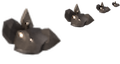
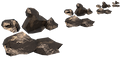
Ilménite : nouvelles icônes sur la forme J7 (objet, gisement, 3 images au sol)
DC (30/10, ~10 h 40) : « je viens de revoir les minerais, changez les icones mais si
non c est pas mal ». Avant : gros plan de feuille.py, un pâté gris soudé, lisse, à
reflets blancs. Après : morceaux de gisement.roche aux réglages J7 (et bosse soudée),
POSÉS en tas séparés comme iron-ore.png, tablette hexagonale bronze d'accent, relief
de surface, brun-noir à plages bronze ; 4 compositions différentes (icône + pictures).
Rendu Blender par le verrou, 128 échantillons, 256 px par tuile, réduit en 64+32+16+8.

Outil propre au lot : tools/render/pieces/ressources/icone_ilmenite.py (gisement.py,
directions.py et feuille.py inchangés). Mêmes noms de fichiers : prototypes inchangés
(world.lua lit déjà icone.png et icone-1 à 3). check_gisement 7 OK ; harnais data
0 violation, code 0. Hors moteur seulement (aucune capture en jeu). Sans verdict du DC.
Planche : fo-logs/2026-10-30_RETOUR-MATIN/ICONES-MINERAIS/ilmenite/index.html

diff --git a/tools/render/pieces/ressources/icone_ilmenite.py b/tools/render/pieces/ressources/icone_ilmenite.py
@@ -1,0 +1,297 @@
+"""ICÔNES DU MINERAI D'ILMÉNITE, refaites sur la forme J7 (lot ICONE-ILMENITE, 30/10).
+
+DC (30/10, ~10 h 40) : « je viens de revoir les minerais, changez les icones mais si non c est pas mal ». La forme J7
+(gisement) est acceptée ; ses icônes (gros plan de feuille.py --icones-seules) ne le sont pas : à 32 px elles se lisent
+en UN pâté gris aux bords lisses (morceaux soudés, aucun grain, reflets blancs ponctuels), quand les icônes vanilla
+(icons/iron-ore.png, coal.png : 64 px + 3 mipmaps) montrent 3 à 5 morceaux SÉPARÉS par un jour sombre, qui remplissent
+le cadre, à surface grenue et arêtes claires.
+
+Même modèle que la forme J7 : morceaux de gisement.roche aux réglages J7 (6 coupes, cassure 0,45 à 0,80, bosses ±16 %,
+aplat 0,90, lissé 30°), tête et bosse soudées comme les amas J7, tablette hexagonale d'accent (gisement.lame, habitus
+tabulaire de l'ilménite) ; matières J7 (ilmenite_k brun-noir, ilmenite_bronze) ; ciel spéculaire × 5 (CALIB J7).
+Ajouts propres à l'icône, assumés : (1) les morceaux sont POSÉS (positions fixes, jour entre eux) au lieu d'être tirés
+dans un disque ; (2) un relief de surface (bosselage par bruit, en coordonnées du monde) qui donne le grain des icônes
+vanilla ; à l'échelle du gisement (32 px par tuile) il n'apporterait rien ; (3) les plages bronze sont un mélange par
+bruit des deux matières J7 sur chaque morceau, au lieu d'une matière par morceau.
+
+Rendu : 4 cellules (icône, puis les 3 images au sol `pictures`) en UN appel de Blender, PAR LE VERROU, à 256 px par
+tuile (--set PX_PER_UNIT_HR=256 : même géométrie que le gisement, 4 fois la résolution), passe main seule ; réduction
+en lumière linéaire prémultipliée (fo_post.icon_strip) en 64 + 32 + 16 + 8 = 120 × 64 px, comme les icônes vanilla.
+
+    # rendu (Blender par le verrou) puis post-traitement, vers un dossier de sortie :
+    python tools/render/with_render_lock.py -- py -3.9 tools/render/pieces/ressources/icone_ilmenite.py \
+        --samples 128 --travail <dossier> --sortie <dossier des icônes>
+    # post-traitement seul : ... --post-seul ; installation dans graphics/ressources/ilmenite (sommes du MANIFEST) :
+    py -3.9 tools/render/pieces/ressources/icone_ilmenite.py --travail <dossier> --installer
+"""
+import argparse
+import hashlib
+import json
+import math
+import os
+import random
+import subprocess
+import sys
+import time
+
+HERE = os.path.dirname(os.path.abspath(__file__))
+RENDER = os.path.abspath(os.path.join(HERE, "..", ".."))
+MOD = os.path.abspath(os.path.join(RENDER, "..", ".."))
+for _p in (HERE, RENDER):
+    if _p not in sys.path:
+        sys.path.insert(0, _p)
+
+PIECE = {"name": "icone-ilmenite", "variants": {"J7": {}}, "margin_px": 32}
+PAS_IC = 6.0          # écart entre deux cellules, en tuiles
+PX = 256.0            # pixels par tuile du rendu des icônes
+GRAINE = 7307
+GROS = 1.10       # morceaux grossis (ronde 6 : à 32 px, le jour entre les morceaux mangeait le cadre)
+RUGOSITE = 0.22   # reflets plus nets que J7 (0,26) : arêtes claires des icônes vanilla
+FICHIERS = ("icone.png", "icone-1.png", "icone-2.png", "icone-3.png")
+
+# Matières : couleurs J7 (directions.MAT["ilmenite_k"], ["ilmenite_bronze"], valeurs linéaires)
+BRUN = (0.11, 0.078, 0.058)
+BRONZE = (0.33, 0.22, 0.14)
+# Compositions (tuiles de jeu, y vers le sud, relatives au centre de la cellule) : (x, y, taille, bosse, part de bronze)
+#   bosse : None ou (angle en degrés, taille relative) d'une bosse soudée (amas J7 : tête et 1 bosse) ;
+#   tablettes : (x, y, longueur, largeur, inclinaison en degrés, azimut en degrés).
+COMPOS = [
+    # icône : 4 morceaux en quinconce serrée (comme iron-ore.png), une tablette bronze qui sort du gros morceau
+    dict(morceaux=[(0.17, 0.17, 0.32, (40, 0.6), 0.35), (-0.24, -0.19, 0.27, (220, 0.55), 0.25),
+                   (0.27, -0.25, 0.23, None, 0.45), (-0.26, 0.24, 0.24, (140, 0.55), 0.25)],
+         tablettes=[(0.03, -0.30, 0.24, 0.26, 22, 170)]),
+    # images au sol : trois autres tas (la vanilla en a 4 en tout, dont l'icône)
+    dict(morceaux=[(-0.15, 0.10, 0.30, (160, 0.6), 0.3), (0.25, 0.17, 0.24, (30, 0.55), 0.4),
+                   (0.10, -0.24, 0.23, None, 0.3), (-0.27, -0.22, 0.17, None, 0.45)],
+         tablettes=[]),
+    dict(morceaux=[(-0.12, 0.10, 0.28, (150, 0.5), 0.35), (0.24, 0.13, 0.24, None, 0.3),
+                   (0.05, -0.25, 0.22, (270, 0.5), 0.45), (-0.30, -0.19, 0.16, None, 0.3),
+                   (0.33, -0.21, 0.15, None, 0.4)],
+         tablettes=[]),
+    dict(morceaux=[(-0.22, -0.20, 0.26, (120, 0.6), 0.3), (0.25, -0.11, 0.23, None, 0.35),
+                   (-0.09, 0.28, 0.23, (10, 0.55), 0.4)],
+         tablettes=[(0.19, 0.25, 0.20, 0.24, 45, 200)]),
+]
+
+
+def centre(c):
+    return (PAS_IC * (c - 1.5), 0.0)
+
+
+# ------------------------------------------------------------------------------------------------
+# Blender (pièce lue par tools/render/blender/render_piece.py)
+# ------------------------------------------------------------------------------------------------
+def _matiere(S, nom, part_bronze):
+    """Brun-noir J7 et plages bronze mêlées par bruit ; relief de surface par bosselage (grain des icônes vanilla)."""
+    import bpy
+    m = bpy.data.materials.new(nom)
+    m.use_nodes = True
+    nt = m.node_tree
+    N, L = nt.nodes, nt.links
+    p = N["Principled BSDF"]
+    tc = N.new("ShaderNodeTexCoord")
+    # plages bronze (bruit large)
+    nb = N.new("ShaderNodeTexNoise")
+    nb.inputs["Scale"].default_value = 9.0
+    nb.inputs["Detail"].default_value = 3.0
+    L.new(tc.outputs["Object"], nb.inputs["Vector"])
+    mb = N.new("ShaderNodeMapRange")
+    mb.inputs["From Min"].default_value = 0.64 - 0.22 * part_bronze
+    mb.inputs["From Max"].default_value = 0.72 - 0.22 * part_bronze
+    L.new(nb.outputs["Fac"], mb.inputs["Value"])
+    # grain fin de la couleur (comme mat_metal : ±22 %)
+    ng = N.new("ShaderNodeTexNoise")
+    ng.inputs["Scale"].default_value = 60.0
+    ng.inputs["Detail"].default_value = 6.0
+    ng.inputs["Roughness"].default_value = 0.6
+    L.new(tc.outputs["Object"], ng.inputs["Vector"])
+    mg = N.new("ShaderNodeMapRange")
+    mg.inputs["From Min"].default_value = 0.3
+    mg.inputs["From Max"].default_value = 0.7
+    mg.inputs["To Min"].default_value = 0.78
+    mg.inputs["To Max"].default_value = 1.22
+    L.new(ng.outputs["Fac"], mg.inputs["Value"])
+    mix = N.new("ShaderNodeMix")
+    mix.data_type = "RGBA"
+    mix.inputs[6].default_value = (BRUN[0], BRUN[1], BRUN[2], 1)
+    mix.inputs[7].default_value = (BRONZE[0], BRONZE[1], BRONZE[2], 1)
+    L.new(mb.outputs["Result"], mix.inputs["Factor"])
+    sc = N.new("ShaderNodeVectorMath")
+    sc.operation = "SCALE"
+    L.new(mix.outputs[2], sc.inputs[0])
+    L.new(mg.outputs["Result"], sc.inputs["Scale"])
+    # creux assombris (dirt 0,45 de J7)
+    ao = N.new("ShaderNodeAmbientOcclusion")
+    ao.inputs["Distance"].default_value = 0.06
+    ao.samples = 8
+    dm = N.new("ShaderNodeMapRange")
+    dm.inputs["To Min"].default_value = 0.55
+    dm.inputs["To Max"].default_value = 1.0
+    L.new(ao.outputs["AO"], dm.inputs["Value"])
+    sd = N.new("ShaderNodeVectorMath")
+    sd.operation = "SCALE"
+    L.new(sc.outputs["Vector"], sd.inputs[0])
+    L.new(dm.outputs["Result"], sd.inputs["Scale"])
+    L.new(sd.outputs["Vector"], p.inputs["Base Color"])
+    # rugosité et métal : J7 (0,26 ; 0,62) sur le brun, bronze (0,32 ; 0,65)
+    rr = N.new("ShaderNodeMapRange")
+    rr.inputs["To Min"].default_value = RUGOSITE
+    rr.inputs["To Max"].default_value = RUGOSITE + 0.06
+    L.new(mb.outputs["Result"], rr.inputs["Value"])
+    L.new(rr.outputs["Result"], p.inputs["Roughness"])
+    p.inputs["Metallic"].default_value = 0.72
+    # relief : bruit grenu + cassures (Voronoï, distance au bord)
+    nr = N.new("ShaderNodeTexNoise")
+    nr.inputs["Scale"].default_value = 38.0
+    nr.inputs["Detail"].default_value = 8.0
+    nr.inputs["Roughness"].default_value = 0.65
+    L.new(tc.outputs["Object"], nr.inputs["Vector"])
+    vo = N.new("ShaderNodeTexVoronoi")
+    vo.feature = "DISTANCE_TO_EDGE"
+    vo.inputs["Scale"].default_value = 16.0
+    L.new(tc.outputs["Object"], vo.inputs["Vector"])
+    vm = N.new("ShaderNodeMapRange")
+    vm.inputs["From Min"].default_value = 0.0
+    vm.inputs["From Max"].default_value = 0.08
+    L.new(vo.outputs["Distance"], vm.inputs["Value"])
+    ad = N.new("ShaderNodeMath")
+    ad.operation = "MULTIPLY_ADD"
+    L.new(vm.outputs["Result"], ad.inputs[0])
+    ad.inputs[1].default_value = 0.5
+    L.new(nr.outputs["Fac"], ad.inputs[2])
+    bu = N.new("ShaderNodeBump")
+    bu.inputs["Strength"].default_value = 0.35
+    bu.inputs["Distance"].default_value = 0.012
+    L.new(ad.outputs["Value"], bu.inputs["Height"])
+    L.new(bu.outputs["Normal"], p.inputs["Normal"])
+    m["fo_kind"] = "surface"
+    return m
+
+
+def build(S, C, variant):
+    import gisement as G   # noqa: E402  (importe bpy : seulement dans Blender)
+    import directions as D  # noqa: E402
+    cle = "J7"
+    d = D.DIRECTIONS[cle]
+    coupes, lisse = D.ROCHE_COUPES[cle], D.ROCHE_LISSE[cle]
+    aplat, cassure, bosse = D.ROCHE_APLAT[cle], D.ROCHE_CASSURE[cle], D.ROCHE_BOSSE[cle]
+    mats = {}
+    for c, compo in enumerate(COMPOS):
+        rng = random.Random(GRAINE * 10 + c)
+        cx, cy = centre(c)
+        for i, (gx, gy, t, b, pb) in enumerate(compo["morceaux"]):
+            t = t * GROS
+            cle_m = round(pb, 2)
+            if cle_m not in mats:
+                mats[cle_m] = _matiere(S, "ilm_icone_%03d" % int(cle_m * 100), cle_m)
+            parts = [(gx, gy, t, 0.0)]
+            if b is not None:
+                a = math.radians(b[0])
+                # bosse soudée : décalée de 0,55 × t, à demi enfoncée (comme la tête et ses bosses dans un amas J7)
+                parts.append((gx + 0.55 * t * math.cos(a), gy + 0.55 * t * math.sin(a) * 0.85, t * b[1], 0.0))
+            for j, (px, py, tt, _) in enumerate(parts):
+                v, f = G.roche(rng, tt, aplat=aplat, n_coupes=coupes, cassure=cassure, bosse=bosse)
+                incl = math.radians(rng.uniform(0, 18))
+                bx, by, _ = C.tile_to_blender(cx + px, cy + py)
+                vv = G._transforme(v, incl, rng.uniform(0, 2 * math.pi), bx, by, -0.25 * tt * math.sin(incl))
+                G._objet("ilm_ic%d_m%d_%d" % (c, i, j), vv, f, mats[cle_m], S, lisse)
+        for k, (gx, gy, L, larg, incl, az) in enumerate(compo["tablettes"]):
+            v, f = G.lame(rng, L, larg, larg * 0.42)
+            bx, by, _ = C.tile_to_blender(cx + gx, cy + gy)
+            vv = G._transforme(v, math.radians(incl), math.radians(az), bx, by, -0.02)
+            if "tab" not in mats:
+                mats["tab"] = _matiere(S, "ilm_icone_tab", 0.9)
+            o = G._objet("ilm_ic%d_tab%d" % (c, k), vv, f, mats["tab"], S)
+            S.bevel(o, 0.008, 1)
+
+
+
+# ------------------------------------------------------------------------------------------------
+# Python système : rendu par Blender (appelé sous le verrou) et post-traitement
+# ------------------------------------------------------------------------------------------------
+BLENDER = os.environ.get("FO_BLENDER", r"C:\Users\evan2\tools\blender-5.2.2\blender.exe")
+
+
+def rendre(travail, samples):
+    os.makedirs(travail, exist_ok=True)
+    cmd = [BLENDER, "-b", "--factory-startup", "-noaudio", "--python-exit-code", "1",
+           "-P", os.path.join(RENDER, "blender", "render_piece.py"), "--",
+           "--piece", os.path.abspath(__file__), "--out", travail, "--variant", "J7", "--samples", str(samples),
+           "--layers", "main", "--margin", "32",
+           "--set", "PX_PER_UNIT_HR=%r" % PX, "--set", "SKY_GLOSSY_FACTOR=5.0"]
+    t0 = time.time()
+    p = subprocess.run(cmd, capture_output=True, text=True, encoding="utf-8", errors="replace")
+    with open(os.path.join(travail, "blender.log"), "w", encoding="utf-8") as f:
+        f.write(" ".join(cmd) + "\n" + p.stdout + "\n" + p.stderr)
+    if p.returncode != 0 or "[FO-RENDER]" not in p.stdout:
+        raise SystemExit("[FO-ICONE-ILM] ECHEC du rendu Blender, journal : %s" % travail)
+    print("[FO-ICONE-ILM] rendu : %.1f s (%d échantillons)" % (time.time() - t0, samples))
+
+
+def post(travail, sortie, fill):
+    import numpy as np
+    import fo_post as P
+    pre = os.path.join(travail, "%s-J7" % PIECE["name"])
+    with open(pre + "-render.json", encoding="utf-8") as f:
+        info = json.load(f)
+    main = np.load(pre + "-main.npy").astype(np.float64)
+    ox, oy = info["origin_px"]
+    s = int(PAS_IC * PX * 0.8)
+    sums = {}
+    os.makedirs(sortie, exist_ok=True)
+    for c, fn in enumerate(FICHIERS):
+        tx, ty = centre(c)
+        x0, y0 = int(round(ox + tx * PX - s / 2)), int(round(oy + ty * PX - s / 2))
+        cad = np.zeros((s, s, 4))
+        H, W = main.shape[:2]
+        xa, xb, ya, yb = max(0, x0), min(W, x0 + s), max(0, y0), min(H, y0 + s)
+        cad[ya - y0:yb - y0, xa - x0:xb - x0] = main[ya:yb, xa:xb]
+        sums[fn] = P.write_png(P.floor_alpha(P.icon_strip(cad, fill=fill)), os.path.join(sortie, fn))
+    print("[FO-ICONE-ILM] 4 icônes (120 x 64) dans %s" % sortie)
+    return info, sums
+
+
+def installer(travail, sortie):
+    """Copie les 4 icônes dans graphics/ressources/ilmenite et met à jour les sommes et la rubrique « icones » du
+    MANIFEST.json de la feuille (check_gisement.py les relit)."""
+    import shutil
+    dest = os.path.join(MOD, "graphics", "ressources", "ilmenite")
+    mp = os.path.join(dest, "MANIFEST.json")
+    with open(mp, encoding="utf-8") as f:
+        man = json.load(f)
+    with open(os.path.join(travail, "%s-J7-render.json" % PIECE["name"]), encoding="utf-8") as f:
+        info = json.load(f)
+    for fn in FICHIERS:
+        shutil.copyfile(os.path.join(sortie, fn), os.path.join(dest, fn))
+        with open(os.path.join(dest, fn), "rb") as f:
+            man["sha256"][fn] = hashlib.sha256(f.read()).hexdigest()
+    man["sha256"] = dict(sorted(man["sha256"].items()))
+    man["icones"] = {"rendu": "tools/render/pieces/ressources/icone_ilmenite.py (forme J7, morceaux posés, relief)",
+                     "echantillons": info.get("samples"), "secondes_blender": info.get("seconds"),
+                     "px_par_tuile": PX}
+    with open(mp, "w", encoding="utf-8", newline=chr(10)) as f:
+        json.dump(man, f, indent=1, ensure_ascii=False, sort_keys=True)
+        f.write("\n")
+    print("[FO-ICONE-ILM] installées dans %s (MANIFEST.json mis à jour)" % dest)
+
+
+def main():
+    ap = argparse.ArgumentParser()
+    ap.add_argument("--travail", required=True)
+    ap.add_argument("--sortie", default=None)
+    ap.add_argument("--samples", type=int, default=128)
+    ap.add_argument("--fill", type=float, default=0.97)
+    ap.add_argument("--post-seul", action="store_true")
+    ap.add_argument("--installer", action="store_true")
+    a = ap.parse_args()
+    sortie = a.sortie or os.path.join(a.travail, "icones")
+    if a.installer:
+        installer(a.travail, sortie)
+        return
+    if not a.post_seul:
+        rendre(a.travail, a.samples)
+    post(a.travail, sortie, a.fill)
+
+
+if __name__ == "__main__":
+    main()
